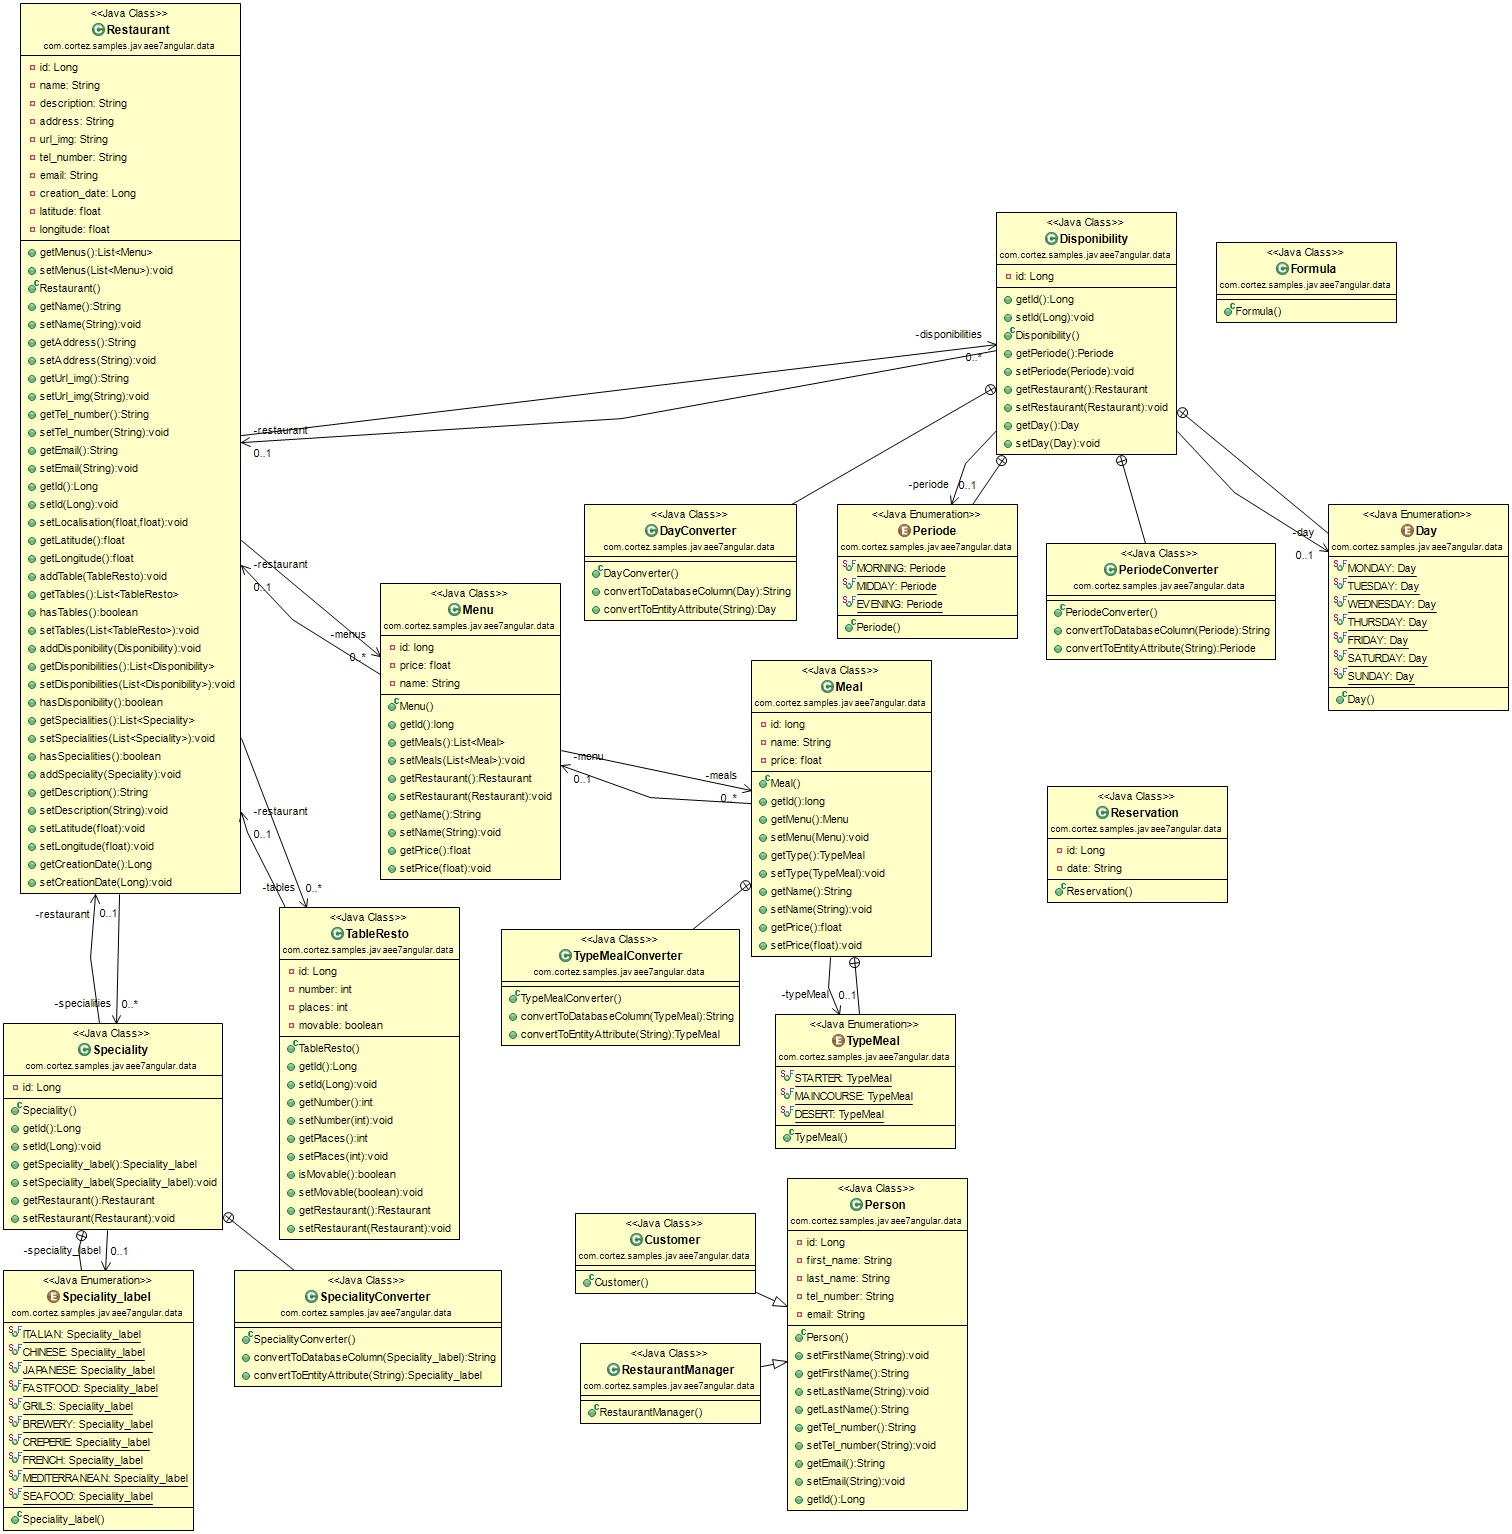
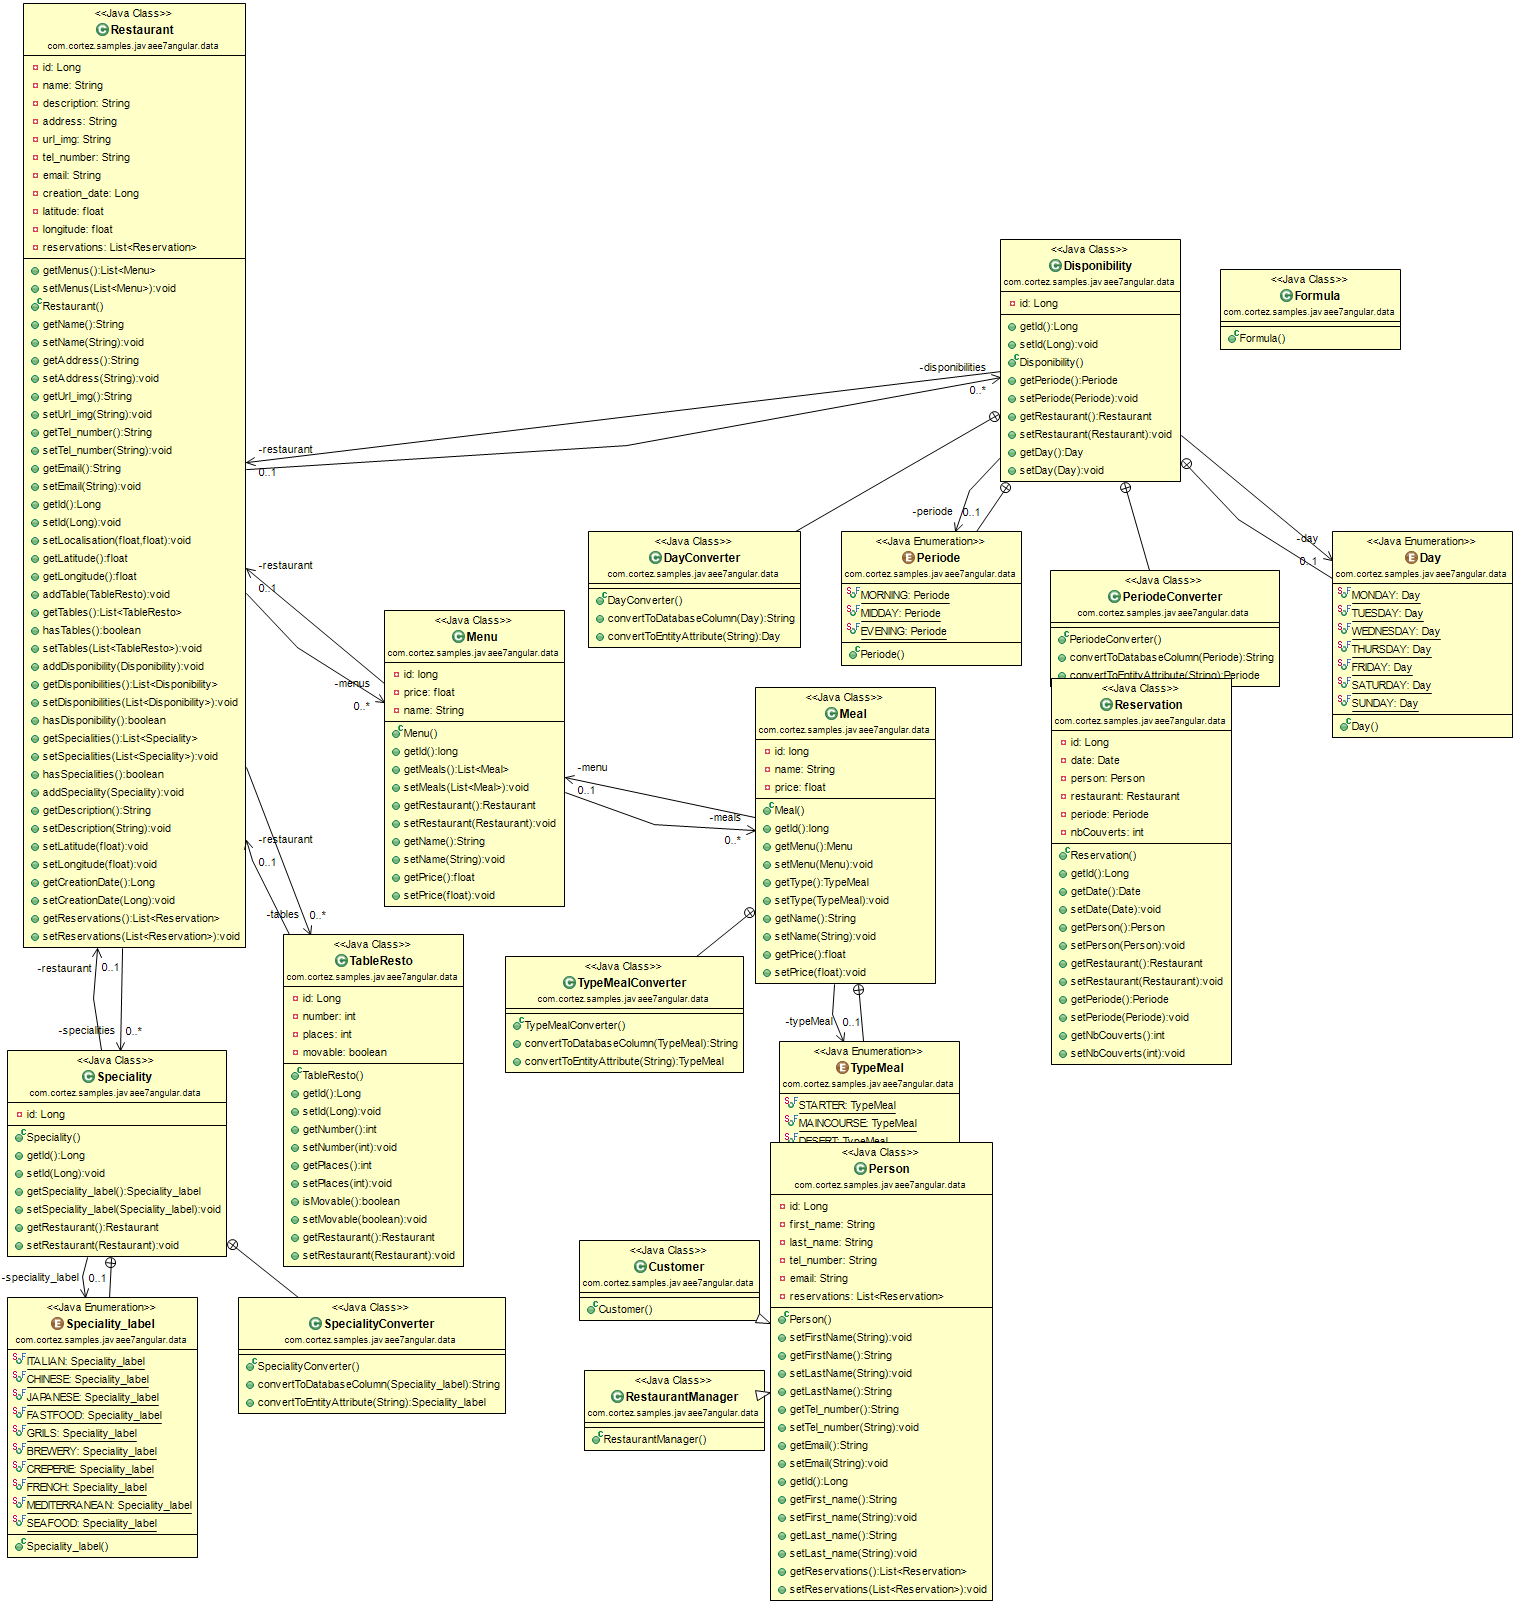
petites corrections back

Changed region(s): [[0.0, 0.0, 0.9325, 1.0], [0.8082, 0.3064, 0.9947, 0.4902], [0.373, 0.2451, 0.5595, 0.2757]]

diff --git a/javaee7-angular/src/main/java/com/cortez/samples/javaee7angular/data/Reservation.java b/javaee7-angular/src/main/java/com/cortez/samples/javaee7angular/data/Reservation.java
@@ -1,6 +1,6 @@
 package com.cortez.samples.javaee7angular.data;
 
-import java.sql.Date;
+import java.util.Date;
 
 import javax.persistence.AttributeConverter;
 import javax.persistence.Basic;
